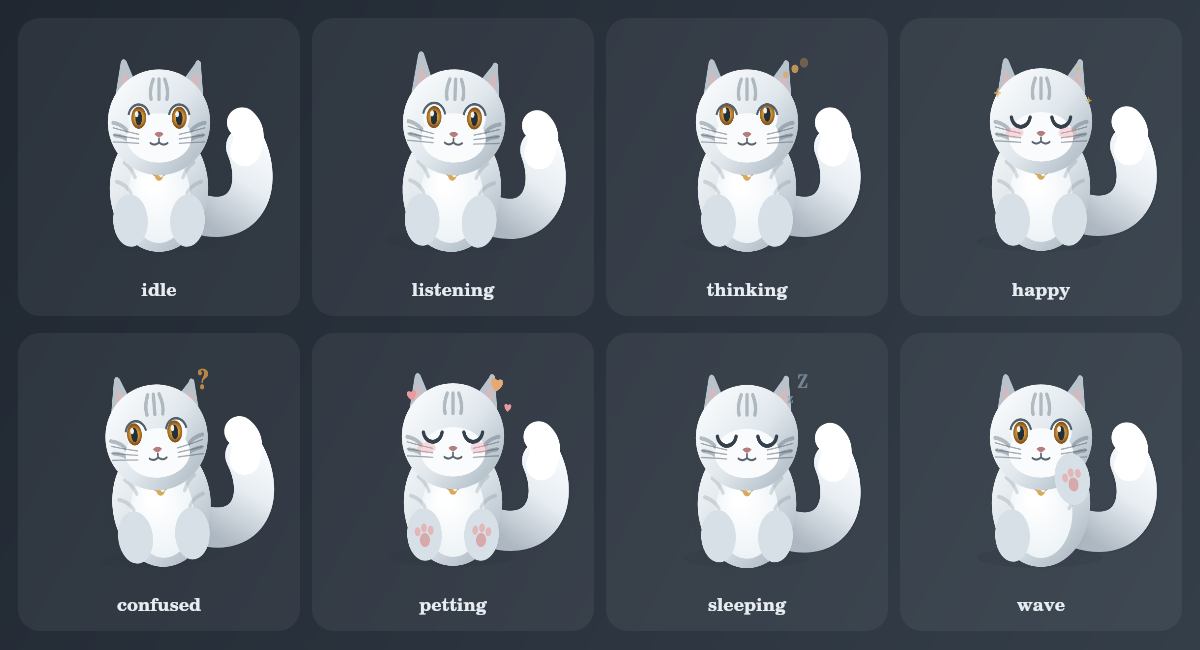
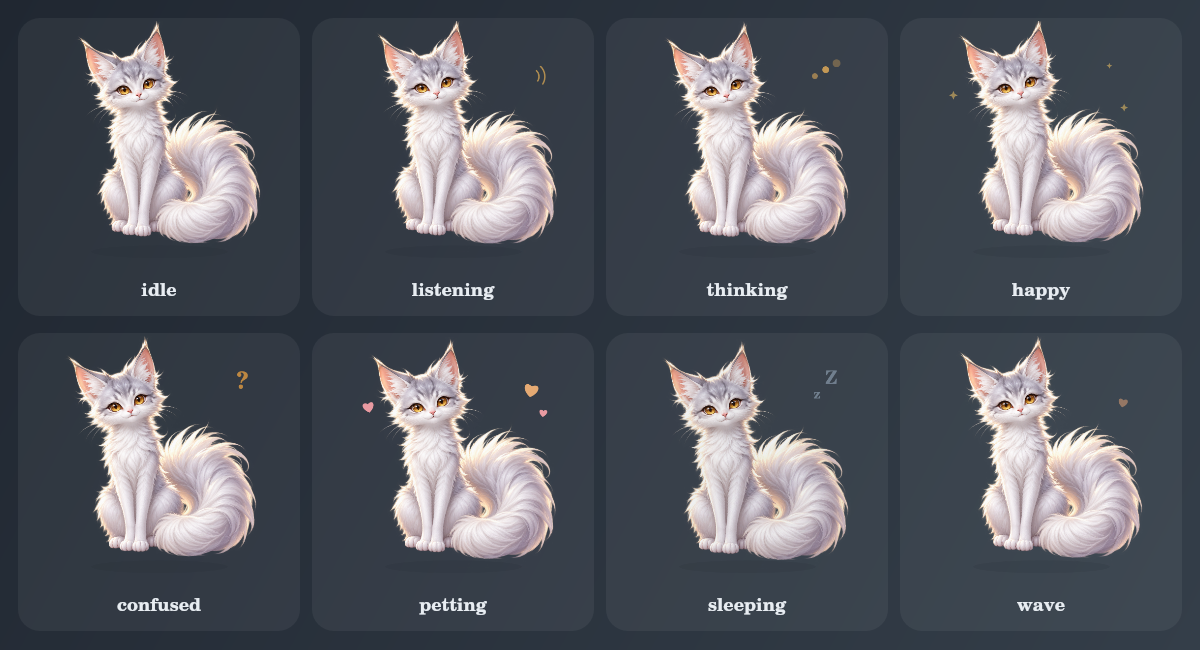
Add files via upload

diff --git a/pet-renderer.js b/pet-renderer.js
@@ -10,6 +10,7 @@ export const PET_STATES = Object.freeze({
 });
 
 const DESIGN_SIZE = 500;
+const SKIN_URL = new URL('./assets/nuoji-base-v1.png', import.meta.url).href;
 
 function ellipse(ctx, x, y, radiusX, radiusY, fillStyle) {
     ctx.beginPath();
@@ -50,9 +51,9 @@ function drawHeart(ctx, x, y, size, color, rotation = 0) {
 }
 
 /**
- * Dependency-free Canvas renderer for the first playable version of Nuoji.
- * It intentionally uses vector drawing so the extension works before a final
- * sprite sheet is ready and stays sharp on Retina displays.
+ * Canvas renderer for Nuoji's painted skin and lightweight state animation.
+ * The original vector kitten remains available only as an emergency fallback
+ * when the bundled transparent artwork cannot be loaded.
  */
 export class NuojiRenderer {
     constructor(canvas) {
@@ -69,10 +70,33 @@ export class NuojiRenderer {
         this.frameId = 0;
         this.lastFrameAt = 0;
         this.pulseUntil = 0;
+        this.skinImage = null;
+        this.skinReady = false;
+        this.skinFailed = false;
         this.boundLoop = this.loop.bind(this);
         this.boundVisibilityChange = this.handleVisibilityChange.bind(this);
 
         this.resizeBackingStore();
+        this.loadSkin();
+    }
+
+    loadSkin() {
+        const image = new Image();
+        image.decoding = 'async';
+        image.addEventListener('load', () => {
+            this.skinImage = image;
+            this.skinReady = true;
+            this.skinFailed = false;
+            this.draw(performance.now());
+        }, { once: true });
+        image.addEventListener('error', () => {
+            this.skinImage = null;
+            this.skinReady = false;
+            this.skinFailed = true;
+            console.warn('[Nuoji Pet] Painted skin failed to load; using the emergency fallback.');
+            this.draw(performance.now());
+        }, { once: true });
+        image.src = SKIN_URL;
     }
 
     resizeBackingStore() {
@@ -169,6 +193,16 @@ export class NuojiRenderer {
         ctx.setTransform(ratio, 0, 0, ratio, 0, 0);
         ctx.clearRect(0, 0, DESIGN_SIZE, DESIGN_SIZE);
 
+        if (this.skinReady && this.skinImage) {
+            this.drawPaintedSkin(ctx, now);
+            return;
+        }
+
+        // Avoid flashing the old vector skin while the local PNG is decoding.
+        if (!this.skinFailed) {
+            return;
+        }
+
         const seconds = (now - this.stateStartedAt) / 1000;
         const still = this.reducedMotion;
         const sleeping = this.state === PET_STATES.SLEEPING;
@@ -205,6 +239,175 @@ export class NuojiRenderer {
         ctx.restore();
 
         ctx.restore();
+    }
+
+    drawPaintedSkin(ctx, now) {
+        const seconds = (now - this.stateStartedAt) / 1000;
+        const still = this.reducedMotion;
+        const wave = still ? 0 : Math.sin(seconds * 2.5);
+        const quickWave = still ? 0 : Math.sin(seconds * 6.2);
+        const streamPulse = !still && now < this.pulseUntil
+            ? Math.sin((this.pulseUntil - now) / 260 * Math.PI)
+            : 0;
+
+        let offsetX = 0;
+        let offsetY = 0;
+        let rotation = 0;
+        let scaleX = 1;
+        let scaleY = 1;
+        let alpha = 1;
+
+        switch (this.state) {
+            case PET_STATES.LISTENING:
+                rotation = still ? 0.018 : 0.018 + wave * 0.008;
+                scaleX = 1.008;
+                scaleY = 1.008;
+                break;
+            case PET_STATES.THINKING:
+                offsetY = still ? 0 : wave * 1.6;
+                rotation = still ? -0.008 : -0.008 + wave * 0.006;
+                break;
+            case PET_STATES.HAPPY:
+                offsetY = still ? -2 : -Math.abs(quickWave) * 7;
+                scaleX = still ? 1.01 : 1.01 + Math.abs(quickWave) * 0.012;
+                scaleY = still ? 1.01 : 1.01 - Math.abs(quickWave) * 0.006;
+                break;
+            case PET_STATES.CONFUSED:
+                offsetX = -3;
+                rotation = -0.045;
+                break;
+            case PET_STATES.PETTING:
+                offsetY = still ? 2 : 2 + Math.abs(quickWave) * 2;
+                scaleX = still ? 1.012 : 1.012 + Math.abs(quickWave) * 0.008;
+                scaleY = still ? 0.992 : 0.992 - Math.abs(quickWave) * 0.006;
+                break;
+            case PET_STATES.SLEEPING:
+                offsetY = 5;
+                rotation = -0.012;
+                scaleX = 1.006;
+                scaleY = 0.988;
+                alpha = 0.94;
+                break;
+            case PET_STATES.WAVE:
+                offsetX = still ? 0 : quickWave * 2.5;
+                rotation = still ? 0.018 : quickWave * 0.022;
+                break;
+            case PET_STATES.IDLE:
+            default: {
+                const breath = still ? 0 : Math.sin(seconds * 2.1);
+                offsetY = breath * 1.1;
+                scaleX = 1 - breath * 0.0025;
+                scaleY = 1 + breath * 0.0045;
+                break;
+            }
+        }
+
+        offsetY -= streamPulse * 2.2;
+
+        ctx.save();
+        ctx.globalAlpha = 0.13;
+        ellipse(ctx, 251, 469, 139, 13, '#1d2832');
+        ctx.restore();
+
+        const naturalWidth = this.skinImage.naturalWidth || this.skinImage.width;
+        const naturalHeight = this.skinImage.naturalHeight || this.skinImage.height;
+        const fitScale = Math.min(438 / naturalWidth, 472 / naturalHeight);
+        const drawWidth = naturalWidth * fitScale;
+        const drawHeight = naturalHeight * fitScale;
+
+        ctx.save();
+        ctx.globalAlpha = alpha;
+        ctx.translate(250 + offsetX, 468 + offsetY);
+        ctx.rotate(rotation);
+        ctx.scale(scaleX, scaleY);
+        ctx.drawImage(this.skinImage, -drawWidth / 2, -drawHeight, drawWidth, drawHeight);
+        ctx.restore();
+
+        this.drawPaintedAccents(ctx, seconds, still);
+    }
+
+    drawPaintedAccents(ctx, seconds, still) {
+        if (this.state === PET_STATES.LISTENING) {
+            const pulse = still ? 0 : Math.sin(seconds * 4) * 2;
+            ctx.save();
+            ctx.strokeStyle = 'rgba(211, 163, 82, 0.78)';
+            ctx.lineWidth = 3;
+            ctx.lineCap = 'round';
+            for (let index = 0; index < 2; index += 1) {
+                ctx.beginPath();
+                ctx.arc(408, 113, 15 + index * 12 + pulse, -0.8, 0.55);
+                ctx.stroke();
+            }
+            ctx.restore();
+        }
+
+        if (this.state === PET_STATES.THINKING) {
+            for (let index = 0; index < 3; index += 1) {
+                const phase = still ? index : (index + Math.floor(seconds * 3)) % 3;
+                ctx.save();
+                ctx.globalAlpha = 0.38 + phase * 0.25;
+                ellipse(ctx, 388 + index * 22, 112 - index * 13, 6 + index, 6 + index, '#d6a457');
+                ctx.restore();
+            }
+        }
+
+        if (this.state === PET_STATES.HAPPY) {
+            const sparkle = still ? 0.85 : 0.68 + Math.sin(seconds * 7) * 0.2;
+            ctx.save();
+            ctx.globalAlpha = sparkle;
+            ctx.fillStyle = '#e7bb62';
+            for (const [x, y, size] of [[72, 151, 9], [419, 176, 8], [389, 91, 6]]) {
+                ctx.beginPath();
+                ctx.moveTo(x, y - size);
+                ctx.lineTo(x + size * 0.3, y - size * 0.3);
+                ctx.lineTo(x + size, y);
+                ctx.lineTo(x + size * 0.3, y + size * 0.3);
+                ctx.lineTo(x, y + size);
+                ctx.lineTo(x - size * 0.3, y + size * 0.3);
+                ctx.lineTo(x - size, y);
+                ctx.lineTo(x - size * 0.3, y - size * 0.3);
+                ctx.closePath();
+                ctx.fill();
+            }
+            ctx.restore();
+        }
+
+        if (this.state === PET_STATES.CONFUSED) {
+            ctx.save();
+            ctx.translate(405, 106);
+            ctx.rotate(0.1);
+            ctx.font = '700 48px ui-rounded, system-ui, sans-serif';
+            ctx.fillStyle = '#bd8741';
+            ctx.fillText('?', 0, 0);
+            ctx.restore();
+        }
+
+        if (this.state === PET_STATES.PETTING) {
+            const rise = still ? 0 : (seconds * 20) % 16;
+            drawHeart(ctx, 79, 151 - rise * 0.22, 24, '#e99aa1', -0.2);
+            drawHeart(ctx, 408, 119 - rise * 0.35, 30, '#e5aa73', 0.18);
+            drawHeart(ctx, 433, 161 - rise * 0.15, 17, '#e99aa1', 0.12);
+        }
+
+        if (this.state === PET_STATES.SLEEPING) {
+            const rise = still ? 0 : (seconds * 16) % 27;
+            ctx.save();
+            ctx.globalAlpha = 0.72;
+            ctx.font = '700 27px ui-rounded, system-ui, sans-serif';
+            ctx.fillStyle = '#8798a8';
+            ctx.fillText('z', 385, 129 - rise * 0.23);
+            ctx.font = '700 37px ui-rounded, system-ui, sans-serif';
+            ctx.fillText('Z', 409, 101 - rise * 0.4);
+            ctx.restore();
+        }
+
+        if (this.state === PET_STATES.WAVE) {
+            const opacity = still ? 0.8 : 0.62 + Math.sin(seconds * 7) * 0.2;
+            ctx.save();
+            ctx.globalAlpha = opacity;
+            drawHeart(ctx, 416, 139, 20, '#e6a477', 0.18);
+            ctx.restore();
+        }
     }
 
     drawShadow(ctx, bodyY) {

diff --git a/README.md b/README.md
@@ -2,7 +2,7 @@
 
 一只住在 SillyTavern 页面里的银白猫狐。糯叽会听你说话、陪模型思考、迎接新回复，也可以被拖到屏幕上任意位置——但我们不把她喂成可露丽那么胖。
 
-这是 GPT × Ripple 一起搓的首个可玩版本 `v0.1.0`。
+这是 GPT × Ripple 一起搓的精致换毛版 `v0.2.0`。
 
 ![糯叽的八种首版状态](docs/state-preview.png)
 
@@ -22,7 +22,7 @@
 - 适配 iPhone 安全视口、触摸拖动和屏幕旋转
 - 不调用模型、不发送聊天内容、不额外消耗 token
 
-首版造型由 Canvas 程序实时绘制，所以开箱即用、Retina 屏也清楚。之后可以保持事件和交互代码不变，只替换成精细透明动画素材。
+`v0.2.0` 已将首版的圆滚滚程序造型替换为透明 2.5D 银白猫狐皮肤；Canvas 继续负责呼吸、倾头、跳跃与状态特效。旧造型只在皮肤文件意外加载失败时应急出现。
 
 ## 本地安装测试
 
@@ -71,8 +71,10 @@ window.NuojiPet.react('sleeping', '困嘟嘟…', 3000);
 ## 文件
 
 - `manifest.json`：SillyTavern 扩展清单
+- `CHANGELOG.md`：版本更新记录
 - `index.js`：事件、拖动、设置与状态机
-- `pet-renderer.js`：银白猫狐 Canvas 动画
+- `pet-renderer.js`：2.5D 皮肤播放器、状态动画与应急绘制
+- `assets/nuoji-base-v1.png`：糯叽透明主皮肤
 - `style.css`：悬浮层、手机适配和设置面板样式
 - `settings.html`：酒馆扩展设置界面
 - `preview.html`：不启动酒馆也能检查动作的本地预览页

diff --git a/CHANGELOG.md b/CHANGELOG.md
@@ -1,0 +1,16 @@
+# 更新记录
+
+## 0.2.0
+
+- 默认外观更换为透明 2.5D 银白猫狐皮肤
+- 保留八种状态的呼吸、倾头、跳跃与轻量特效
+- 图片解码完成前保持透明，避免旧造型闪现
+- 旧程序造型降级为素材损坏时的应急备用
+
+## 0.1.0
+
+- 首个可玩版本
+- 接入 SillyTavern 消息、生成与聊天切换事件
+- 支持鼠标 / 触摸拖动、位置保存与移动端安全区域
+- 加入扩展设置面板与八种状态预览
+
